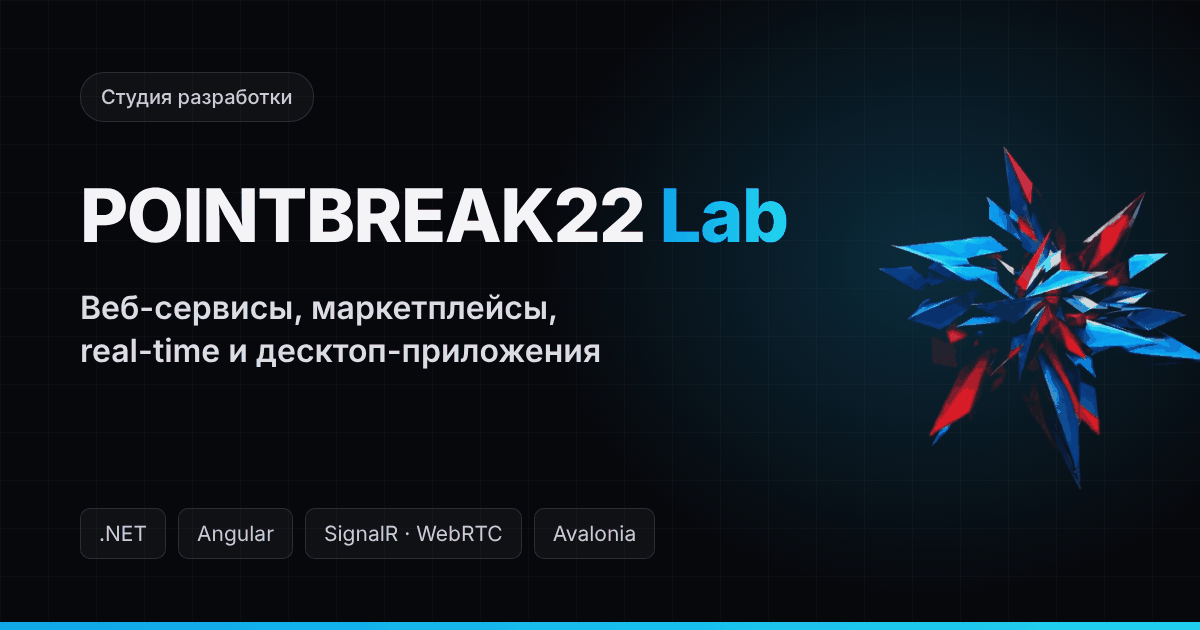
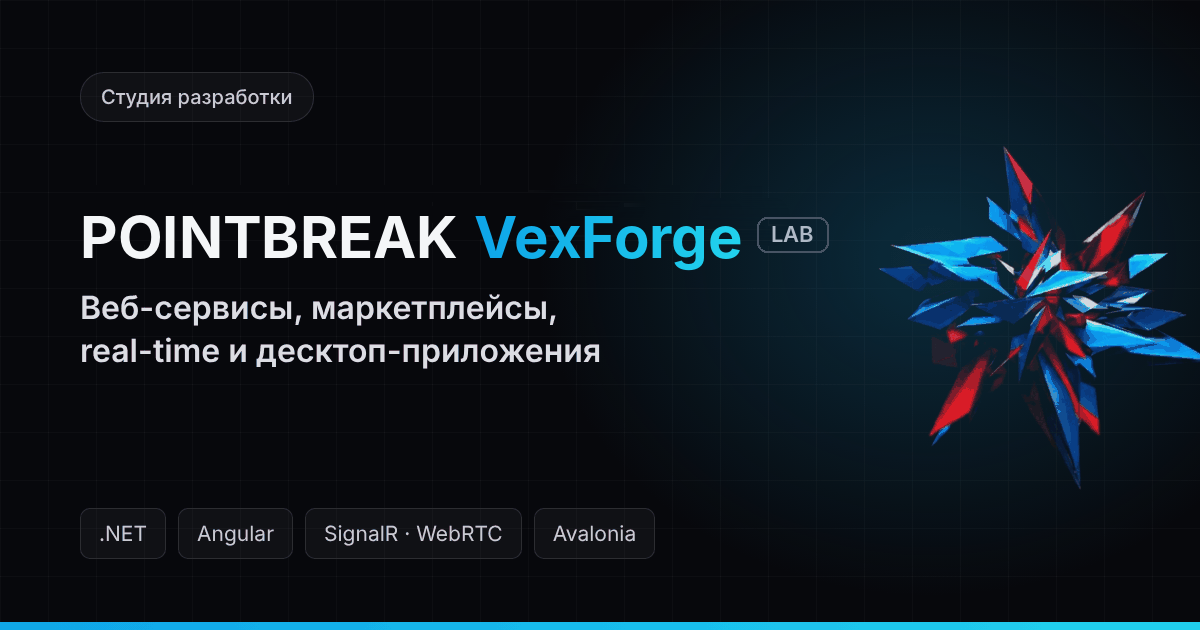
Rename to POINTBREAK VexForge Lab with brand search phrases
- Brand name POINTBREAK VexForge Lab in titles, meta, Open Graph,
  JSON-LD, header, footer, web manifest; preview images redrawn
- New logo lockup: POINTBREAK + gradient VexForge + LAB badge
- JSON-LD alternateName and home page keywords cover the spellings
  "pointbreak vexforge", "vex forge", "VexForge Lab" and the old name

Claude-Session: https://claude.ai/code/session_01JPMkWFo3r9Podom6cVkVZF

Changed region(s): [[0.0617, 0.2714, 0.6783, 0.4524]]

diff --git a/Client/point-craft-client/src/app/i18n/translations.ts b/Client/point-craft-client/src/app/i18n/translations.ts
@@ -9,6 +9,8 @@ export interface Translations {
   seo: {
     homeTitle: string;
     homeDescription: string;
+    /** Topic phrases for the home page keywords, after the brand ones from core/seo/site.ts. */
+    homeKeywords: string[];
     organizationDescription: string;
     serviceTitleSuffix: string;
     projectTitleSuffix: string;
@@ -106,14 +108,15 @@ export interface Translations {
 
 const en: Translations = {
   seo: {
-    homeTitle: 'POINTBREAK22 Lab — web services, marketplaces, real-time & desktop app development',
+    homeTitle: 'POINTBREAK VexForge Lab — web services, marketplaces, real-time & desktop app development',
     homeDescription:
-      'POINTBREAK22 Lab builds web services, SaaS, marketplaces, real-time apps with chat and video calls, ' +
+      'PointBreak VexForge Lab builds web services, SaaS, marketplaces, real-time apps with chat and video calls, ' +
       'and cross-platform desktop software on .NET and Angular — with SSR and SEO out of the box.',
+    homeKeywords: ['web development studio', 'web service development', 'marketplace development', 'desktop app development', '.NET', 'Angular'],
     organizationDescription:
       'Development studio: web services, SaaS, marketplaces, real-time and desktop applications on .NET and Angular.',
-    serviceTitleSuffix: 'POINTBREAK22 Lab',
-    projectTitleSuffix: 'POINTBREAK22 Lab case study',
+    serviceTitleSuffix: 'PointBreak VexForge',
+    projectTitleSuffix: 'PointBreak VexForge case study',
   },
   nav: {
     services: 'Services',
@@ -131,7 +134,7 @@ const en: Translations = {
     switchToDark: 'Switch to dark theme',
   },
   hero: {
-    badge: 'POINTBREAK22 Lab · development studio',
+    badge: 'POINTBREAK VexForge Lab · development studio',
     title: 'Web services, marketplaces, and desktop apps for problems a template can’t solve',
     subtitle:
       'From SSR catalogs and SaaS dashboards to messengers with video calls and plugin-based desktop software. ' +
@@ -247,20 +250,21 @@ const en: Translations = {
     submitting: 'Sending…',
   },
   footer: {
-    tagline: 'POINTBREAK22 Lab. Web services, real-time and desktop apps.',
+    tagline: 'POINTBREAK VexForge Lab. Web services, real-time and desktop apps.',
   },
 };
 
 const ru: Translations = {
   seo: {
-    homeTitle: 'POINTBREAK22 Lab — разработка веб-сервисов, маркетплейсов, real-time и десктоп-приложений',
+    homeTitle: 'POINTBREAK VexForge Lab — разработка веб-сервисов, маркетплейсов, real-time и десктоп-приложений',
     homeDescription:
-      'POINTBREAK22 Lab разрабатывает веб-сервисы, SaaS, маркетплейсы, мессенджеры с видеозвонками и ' +
+      'PointBreak VexForge Lab разрабатывает веб-сервисы, SaaS, маркетплейсы, мессенджеры с видеозвонками и ' +
       'кроссплатформенные десктоп-приложения на .NET и Angular — с SSR и SEO из коробки.',
+    homeKeywords: ['студия разработки', 'разработка веб-сервисов', 'разработка маркетплейса', 'разработка десктоп-приложений', '.NET', 'Angular'],
     organizationDescription:
       'Студия разработки: веб-сервисы, SaaS, маркетплейсы, real-time и десктоп-приложения на .NET и Angular.',
-    serviceTitleSuffix: 'POINTBREAK22 Lab',
-    projectTitleSuffix: 'кейс POINTBREAK22 Lab',
+    serviceTitleSuffix: 'PointBreak VexForge',
+    projectTitleSuffix: 'кейс PointBreak VexForge',
   },
   nav: {
     services: 'Услуги',
@@ -278,7 +282,7 @@ const ru: Translations = {
     switchToDark: 'Включить тёмную тему',
   },
   hero: {
-    badge: 'POINTBREAK22 Lab · студия разработки',
+    badge: 'POINTBREAK VexForge Lab · студия разработки',
     title: 'Веб-сервисы, маркетплейсы и десктоп-приложения для задач, которые не решить шаблоном',
     subtitle:
       'От SSR-каталогов и SaaS-кабинетов до мессенджеров с видеозвонками и десктоп-программ на плагинах. ' +
@@ -394,7 +398,7 @@ const ru: Translations = {
     submitting: 'Отправляем…',
   },
   footer: {
-    tagline: 'POINTBREAK22 Lab. Веб-сервисы, real-time и десктоп-приложения.',
+    tagline: 'POINTBREAK VexForge Lab. Веб-сервисы, real-time и десктоп-приложения.',
   },
 };
 

diff --git a/Client/point-craft-client/src/app/core/seo/site.ts b/Client/point-craft-client/src/app/core/seo/site.ts
@@ -2,7 +2,29 @@
 // still the original one; change SITE_URL here (and Site:BaseUrl in the API for the sitemap)
 // when the site moves to its own domain.
 export const SITE_URL = 'https://pointcraft.duckdns.org';
-export const SITE_NAME = 'POINTBREAK22 Lab';
+export const SITE_NAME = 'POINTBREAK VexForge Lab';
+/**
+ * Other spellings people type for the brand — fed to JSON-LD alternateName and the home page keywords so
+ * search engines tie "pointbreak vexforge", "vex forge", the old name etc. to this site.
+ */
+export const SITE_ALTERNATE_NAMES = [
+  'PointBreak VexForge',
+  'PointBreak VexForge Lab',
+  'VexForge Lab',
+  'VexForge',
+  'PointBreak Vex Forge',
+  'POINTBREAK22 Lab',
+] as const;
+/** Lower-case search phrases for the brand itself, for <meta name="keywords"> on the home page. */
+export const BRAND_KEYWORDS = [
+  'pointbreak vexforge',
+  'pointbreak vexforge lab',
+  'vexforge',
+  'vexforge lab',
+  'vex forge',
+  'pointbreak vex forge',
+  'pointbreak lab',
+];
 export const SITE_LOGO = `${SITE_URL}/logo.png`;
 /** 1200×630 link-preview images (public/og-ru.png, og-en.png), one per locale. */
 export const OG_IMAGE = { ru: `${SITE_URL}/og-ru.png`, en: `${SITE_URL}/og-en.png` } as const;

diff --git a/Client/point-craft-client/src/app/pages/landing/landing.ts b/Client/point-craft-client/src/app/pages/landing/landing.ts
@@ -9,7 +9,7 @@ import { SiteFooter } from '../../components/site-footer/site-footer';
 import { SiteHeader } from '../../components/site-header/site-header';
 import { TechStackSection } from '../../components/tech-stack-section/tech-stack-section';
 import { SeoService } from '../../core/seo/seo.service';
-import { ORGANIZATION_ID, SITE_NAME, SITE_URL } from '../../core/seo/site';
+import { BRAND_KEYWORDS, ORGANIZATION_ID, SITE_ALTERNATE_NAMES, SITE_NAME, SITE_URL } from '../../core/seo/site';
 import { localizePath } from '../../shared/locale-path';
 import { ContentStore } from '../../stores/content.store';
 import { LocaleStore } from '../../stores/locale.store';
@@ -47,12 +47,14 @@ export class Landing {
         title: t.seo.homeTitle,
         description: t.seo.homeDescription,
         path: '/',
+        keywords: [...BRAND_KEYWORDS, ...t.seo.homeKeywords],
         jsonLd: [
           {
             '@type': 'WebSite',
             '@id': `${SITE_URL}/#website`,
             url: SITE_URL + localizePath('/', locale),
             name: SITE_NAME,
+            alternateName: SITE_ALTERNATE_NAMES,
             inLanguage: locale,
             publisher: { '@id': ORGANIZATION_ID },
           },

diff --git a/Client/point-craft-client/src/index.html b/Client/point-craft-client/src/index.html
@@ -4,8 +4,8 @@
   <meta charset="utf-8">
   <!-- Defaults for client-only routes (login/dashboard). Public pages replace the title,
        description, canonical, hreflang, Open Graph and JSON-LD per page — see core/seo/seo.service.ts. -->
-  <title>POINTBREAK22 Lab — разработка веб-сервисов и десктоп-приложений</title>
-  <meta name="description" content="POINTBREAK22 Lab — веб-сервисы, маркетплейсы, real-time и десктоп-приложения на .NET и Angular.">
+  <title>POINTBREAK VexForge Lab — разработка веб-сервисов и десктоп-приложений</title>
+  <meta name="description" content="PointBreak VexForge Lab — веб-сервисы, маркетплейсы, real-time и десктоп-приложения на .NET и Angular.">
   <base href="/">
   <meta name="viewport" content="width=device-width, initial-scale=1">
   <meta name="theme-color" content="#08090d">

diff --git a/Client/point-craft-client/src/app/components/site-footer/site-footer.html b/Client/point-craft-client/src/app/components/site-footer/site-footer.html
@@ -3,7 +3,11 @@
     <div>
       <a [routerLink]="home()" class="inline-flex items-center gap-2 rounded-lg focus-visible:outline-none focus-visible:ring-2 focus-visible:ring-accent-500">
         <img ngSrc="logo-96.png" width="96" height="96" alt="" class="h-7 w-7 rounded-lg" />
-        <span class="text-sm font-semibold text-foreground">POINTBREAK22 <span class="text-accent-500">Lab</span></span>
+        <span class="flex items-center gap-1.5 text-sm font-semibold tracking-tight text-foreground">
+          <span class="tracking-wide">POINTBREAK</span>
+          <span class="bg-gradient-to-r from-accent-500 to-accent2-500 bg-clip-text font-bold text-transparent">VexForge</span>
+          <span class="rounded-md border border-border px-1.5 py-px text-[10px] font-medium uppercase tracking-widest text-muted-foreground">Lab</span>
+        </span>
       </a>
       <p class="mt-3 max-w-xs text-sm text-muted-foreground">{{ t().seo.organizationDescription }}</p>
       <a

diff --git a/Client/point-craft-client/src/app/components/site-header/site-header.html b/Client/point-craft-client/src/app/components/site-header/site-header.html
@@ -6,7 +6,11 @@
              focus-visible:ring-accent-500 focus-visible:ring-offset-2 focus-visible:ring-offset-surface"
     >
       <img ngSrc="logo-96.png" width="96" height="96" priority alt="" class="h-7 w-7 rounded-lg" />
-      <span class="text-sm font-semibold text-foreground">POINTBREAK22 <span class="text-accent-500">Lab</span></span>
+      <span class="flex items-center gap-1.5 text-sm font-semibold tracking-tight text-foreground">
+        <span class="tracking-wide">POINTBREAK</span>
+        <span class="bg-gradient-to-r from-accent-500 to-accent2-500 bg-clip-text font-bold text-transparent">VexForge</span>
+        <span class="rounded-md border border-border px-1.5 py-px text-[10px] font-medium uppercase tracking-widest text-muted-foreground">Lab</span>
+      </span>
     </a>
 
     <nav aria-label="Primary" class="hidden items-center gap-6 md:flex">

diff --git a/Client/point-craft-client/src/app/core/seo/seo.service.ts b/Client/point-craft-client/src/app/core/seo/seo.service.ts
@@ -4,7 +4,16 @@ import { Meta, Title } from '@angular/platform-browser';
 import { Locale } from '../../interfaces/locale';
 import { localizePath } from '../../shared/locale-path';
 import { LocaleStore } from '../../stores/locale.store';
-import { GITHUB_URL, OG_IMAGE, OG_IMAGE_SIZE, ORGANIZATION_ID, SITE_LOGO, SITE_NAME, SITE_URL } from './site';
+import {
+  GITHUB_URL,
+  OG_IMAGE,
+  OG_IMAGE_SIZE,
+  ORGANIZATION_ID,
+  SITE_ALTERNATE_NAMES,
+  SITE_LOGO,
+  SITE_NAME,
+  SITE_URL,
+} from './site';
 
 export interface SeoData {
   title: string;
@@ -75,6 +84,7 @@ export class SeoService {
       '@type': 'ProfessionalService',
       '@id': ORGANIZATION_ID,
       name: SITE_NAME,
+      alternateName: SITE_ALTERNATE_NAMES,
       url: SITE_URL + localizePath('/', locale),
       logo: SITE_LOGO,
       image: SITE_LOGO,

diff --git a/Client/point-craft-client/src/app/components/header/header.html b/Client/point-craft-client/src/app/components/header/header.html
@@ -1,7 +1,7 @@
 <header class="flex h-14 shrink-0 items-center justify-between border-b border-border bg-surface px-4">
   <div class="flex items-center gap-2">
     <div class="h-7 w-7 rounded-lg bg-gradient-to-br from-accent-500 to-accent2-500"></div>
-    <span class="text-sm font-semibold text-foreground">POINTBREAK22 Lab</span>
+    <span class="text-sm font-semibold text-foreground">POINTBREAK <span class="bg-gradient-to-r from-accent-500 to-accent2-500 bg-clip-text text-transparent">VexForge</span> Lab</span>
   </div>
 
   <div class="flex items-center gap-1">

diff --git a/Client/point-craft-client/.claude/CLAUDE.md b/Client/point-craft-client/.claude/CLAUDE.md
@@ -24,7 +24,7 @@ Architecture and visual style are deliberately modeled on the user's other proje
 
 **Structure convention** (mirrors MessengerAzure): `pages/` = routed, top-level views; `components/` = reusable pieces embedded in pages; `core/` = cross-cutting infra (auth, http, realtime — none exist yet, add as the backend is defined); `services/` = thin HTTP wrappers, one per resource, no state; `stores/` = signal-based state, the only thing components inject; `shared/` = pure helper functions; `interfaces/` = DTOs/types. Every component uses the 3-file split (`.ts`+`.html`+`.css`), even when the `.css` ends up empty because styling is Tailwind utility classes in the template.
 
-**Brand:** the site is **POINTBREAK22 Lab** (PointCraft → PointBreak Lab on 2026-10-10 → Ultima PointBreak Lab on 2026-10-18, because another site already uses "PointBreak Lab" → POINTBREAK22 Lab on 2026-10-23; code identifiers, repo, and the `pointcraft.duckdns.org` domain kept the old name). Domain/brand constants live in `core/seo/site.ts`; search-oriented titles/descriptions/keywords for service and project pages live in `core/seo/page-seo.ts`, keyed by slug.
+**Brand:** the site is **POINTBREAK VexForge Lab** (PointCraft → PointBreak Lab on 2026-10-10 → Ultima PointBreak Lab on 2026-10-18, because another site already uses "PointBreak Lab" → POINTBREAK22 Lab on 2026-10-23 → POINTBREAK VexForge Lab on 2026-11-12, so the brand phrase "pointbreak vexforge" is searchable — spellings in `SITE_ALTERNATE_NAMES`/`BRAND_KEYWORDS`; code identifiers, repo, and the `pointcraft.duckdns.org` domain kept the old name). Domain/brand constants live in `core/seo/site.ts`; search-oriented titles/descriptions/keywords for service and project pages live in `core/seo/page-seo.ts`, keyed by slug.
 
 **Routing & locales (SEO):** public pages are mounted twice in `app.routes.ts` — Russian at the root, English under `/en` (`''`/`services/:slug`/`projects/:slug`). `core/i18n/locale.guard.ts` sets `LocaleStore`'s locale from the URL on activation, on the server too, so SSR output is in the URL's language; the language switch in `SiteHeader` is a link to the other locale's address (`shared/locale-path.ts`), never a toggle. Section links must be `routerLink` + `fragment`, never bare `href="#…"` (that resolves against `<base href="/">` and jumps from `/en` to the Russian page). Every public page calls `SeoService.update()` (`core/seo/seo.service.ts`) for title/description/canonical/hreflang/OG and one JSON-LD `@graph`; service and project pages set a real 404 via `RESPONSE_INIT` for unknown slugs. `/sitemap.xml` is built by the API (`SeoController`) and proxied by `src/server.ts`.
 
